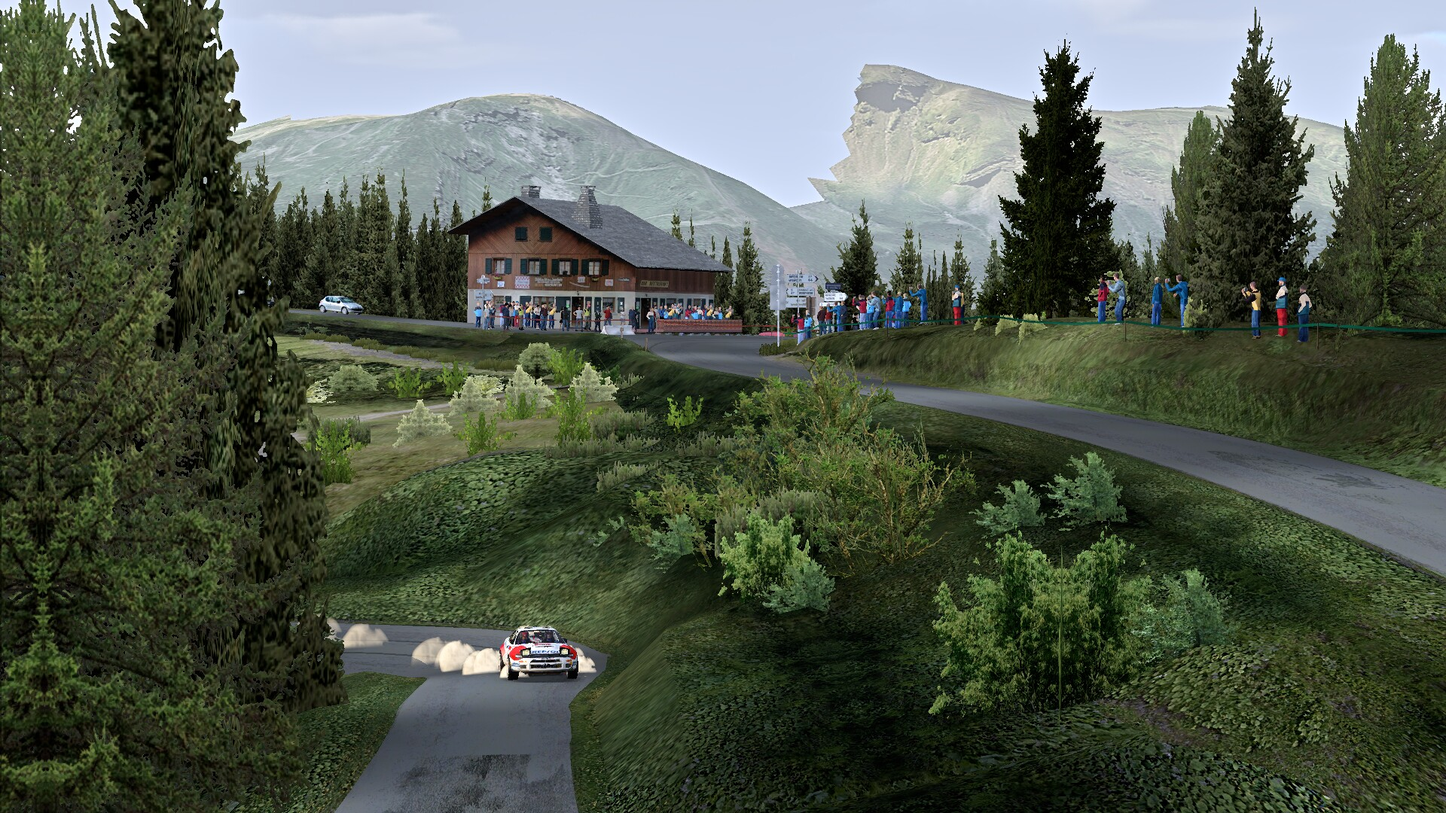
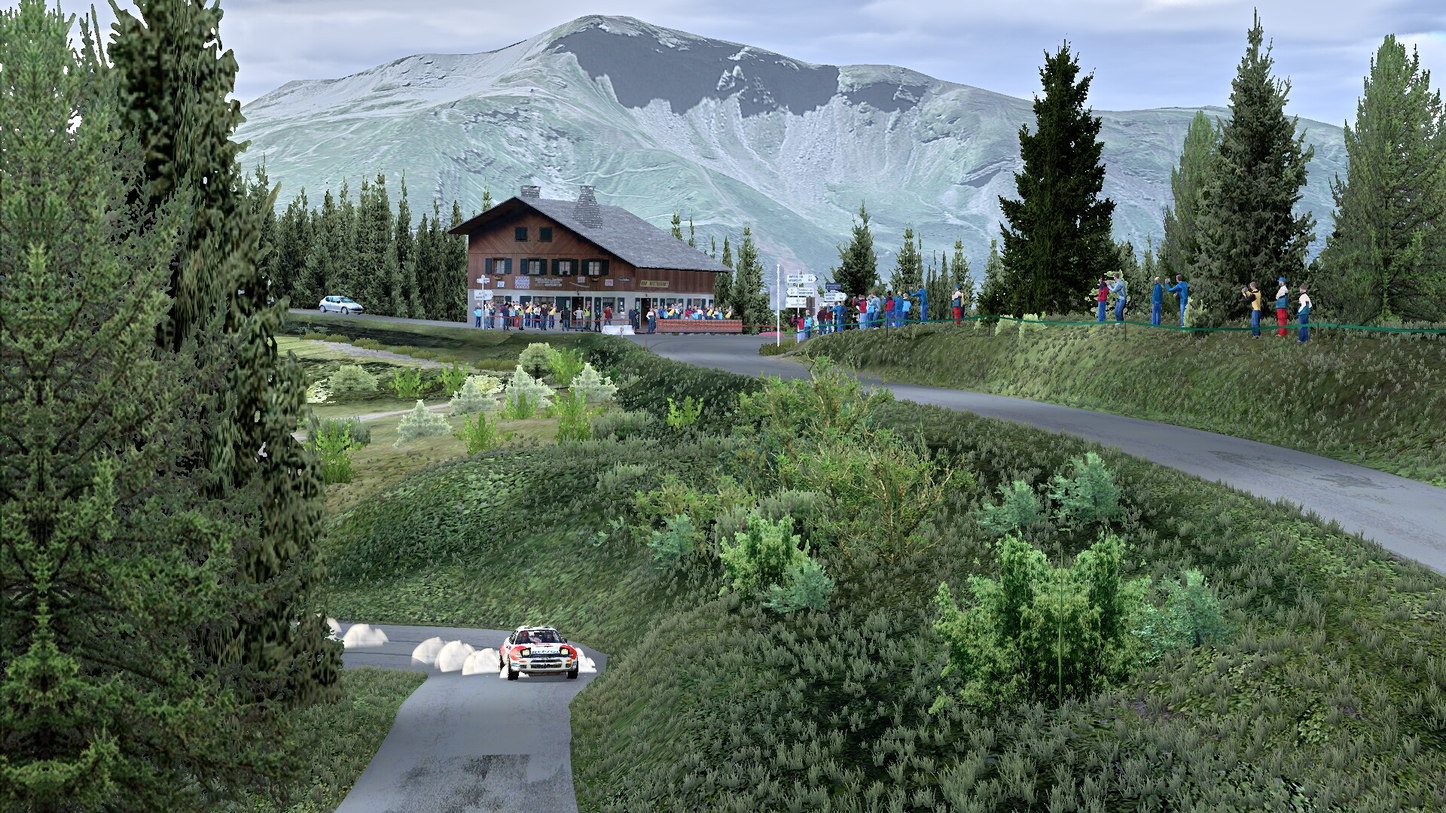
README gallery: the Celica on Joux Verte in place of the GC8 in the rain on Luceram; the shot rendered again on the current look

diff --git a/README.md b/README.md
@@ -24,8 +24,8 @@ Reimplementation of Richard Burns Rally 1.02 with NGP 7 physics. Not a mod, not 
 |---|---|
 | ![An Audi quattro A2 Group B on a wet Pengonpohja in the low evening sun, light through the pines and a puddle by the road, seen from a wide fly-by camera](docs/shots/golden-pengonpohja-quattro-flyby.jpg) | ![The cockpit of an Audi quattro A2 Group B passing a sunlit red barn on Pirttikulma in the afternoon, the road ahead through the windscreen](docs/shots/day-pirttikulma-quattro-cockpit.jpg) |
 | Audi quattro A2 Group B (model by Shenshee), Pengonpohja (stage by Justup & BTBfin) | Audi quattro A2 Group B (model by Shenshee), Pirttikulma (stage by Justup & BTBfin) |
-| ![A Subaru Impreza GC8 555 throwing up spray in heavy rain on Luceram Col Saint Roch](docs/shots/rain-luceram-gc8-flyby.jpg) | ![A Toyota GR Yaris Rally2 in fog on Comb I](docs/shots/fog-621-yaris-chase.jpg) |
-| Subaru Impreza GC8 555 Group A (model by gonzo_kool), Luceram Col Saint Roch (stage by Casgra11) | Toyota GR Yaris Rally2 (model by Ha3aP), Comb I (stage by Edd Hartley) |
+| ![A Toyota Celica ST185 Group A climbing the hairpins below the chalet on Joux Verte, spruces, spectators and the mountains behind](docs/shots/day-joux-verte-celica-chase.jpg) | ![A Toyota GR Yaris Rally2 in fog on Comb I](docs/shots/fog-621-yaris-chase.jpg) |
+| Toyota Celica 2000GT-FOUR RC (ST185) Group A (model by gonzo_kool & kazuma_NARU), Joux Verte SS7 reversed (Assetto Corsa track by JCRR, imported with ReRBR) | Toyota GR Yaris Rally2 (model by Ha3aP), Comb I (stage by Edd Hartley) |
 | ![A Ford Escort Mk II RS Group 4 on a snowy Peklo Snow](docs/shots/snow-peklo-escort-flyby.jpg) | ![A Ford Fiesta Rally2 at night on Gabiria Legazpi, the headlights lighting the road and the spectators](docs/shots/night-gabiria-fiesta-chase.jpg) |
 | Ford Escort Mk II RS Group 4 (model by Ha3aP, fixed by WorkerBee), Peklo Snow (stage by Miro Kurek) | Ford Fiesta Rally2 (model by G. Rodriguez & D. Antonelli), Gabiria Legazpi (stage by Jan Kaderabek & Lorenzo Clerici) |
 | ![A Toyota GR Yaris Rally2 throwing up golden backlit dust in the morning sun on Comb I](docs/shots/golden-621-yaris-flyby.jpg) | ![A Toyota GR Yaris Rally2 splashing through the puddles of a wet Falstone II in the low evening sun, seen from a wide fly-by camera](docs/shots/golden-falstone-yaris-flyby.jpg) |
